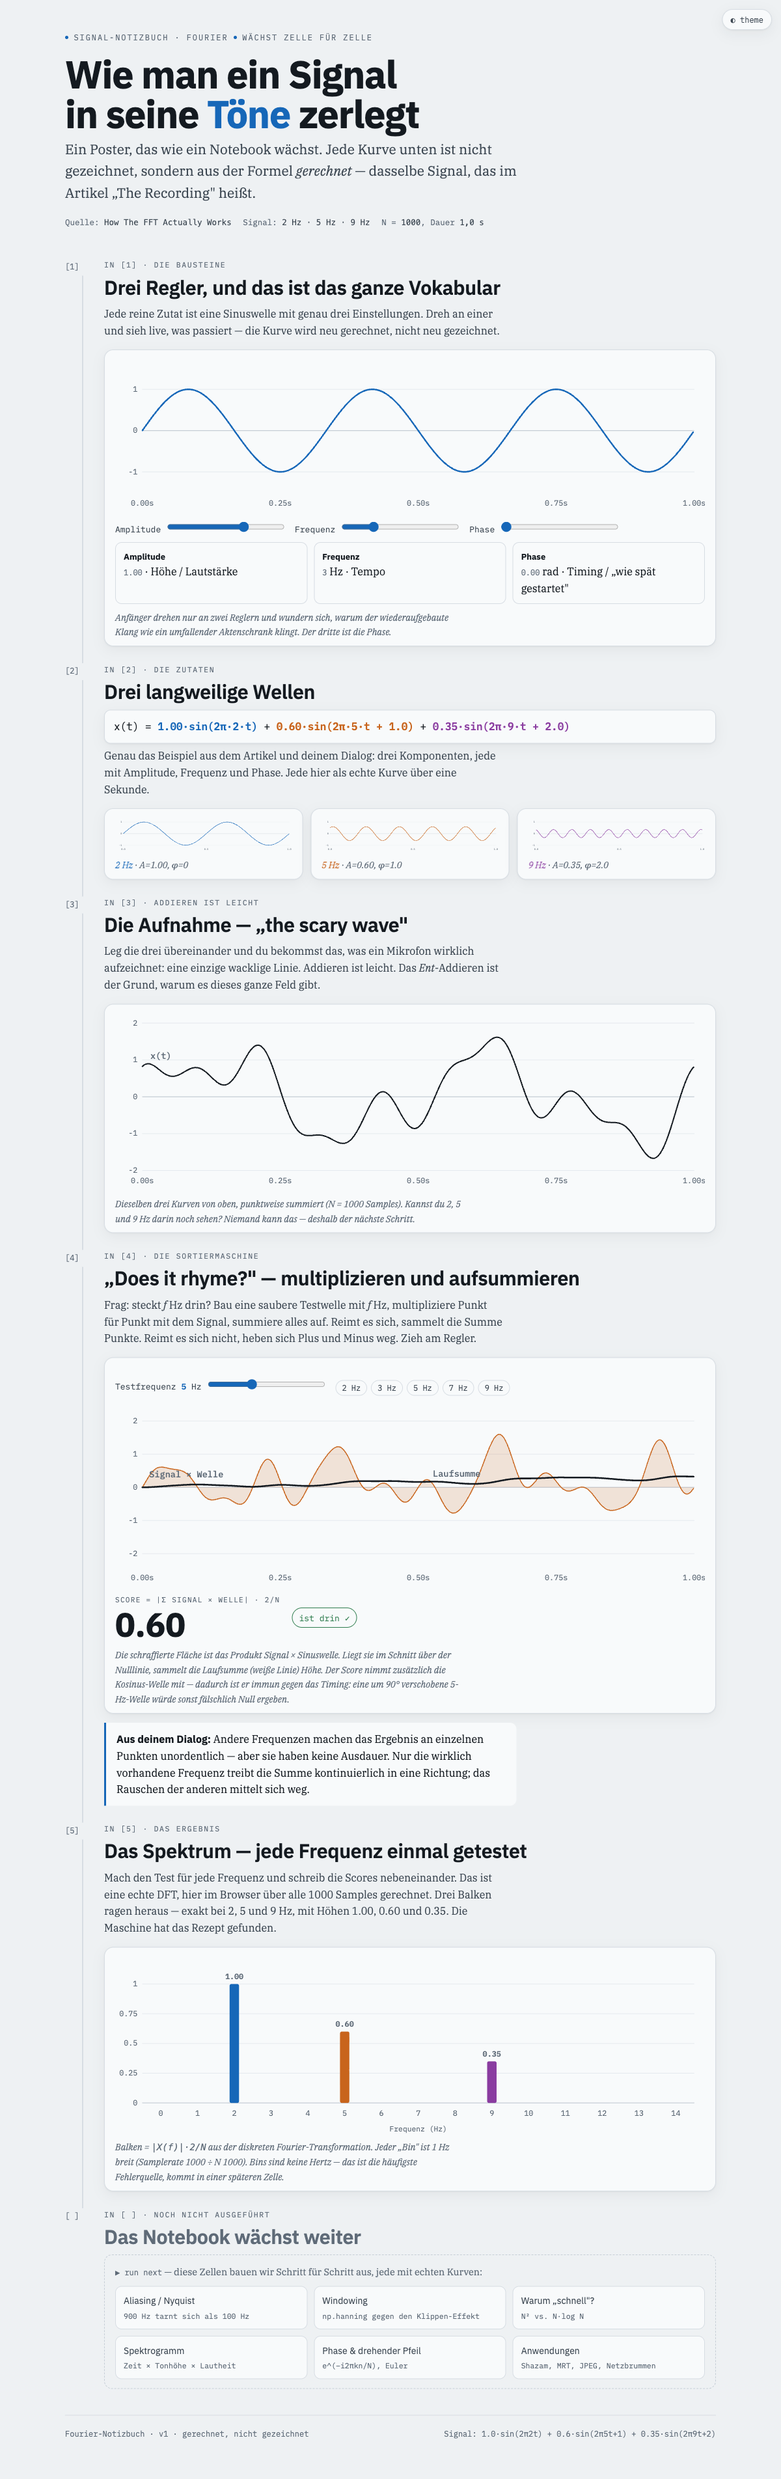
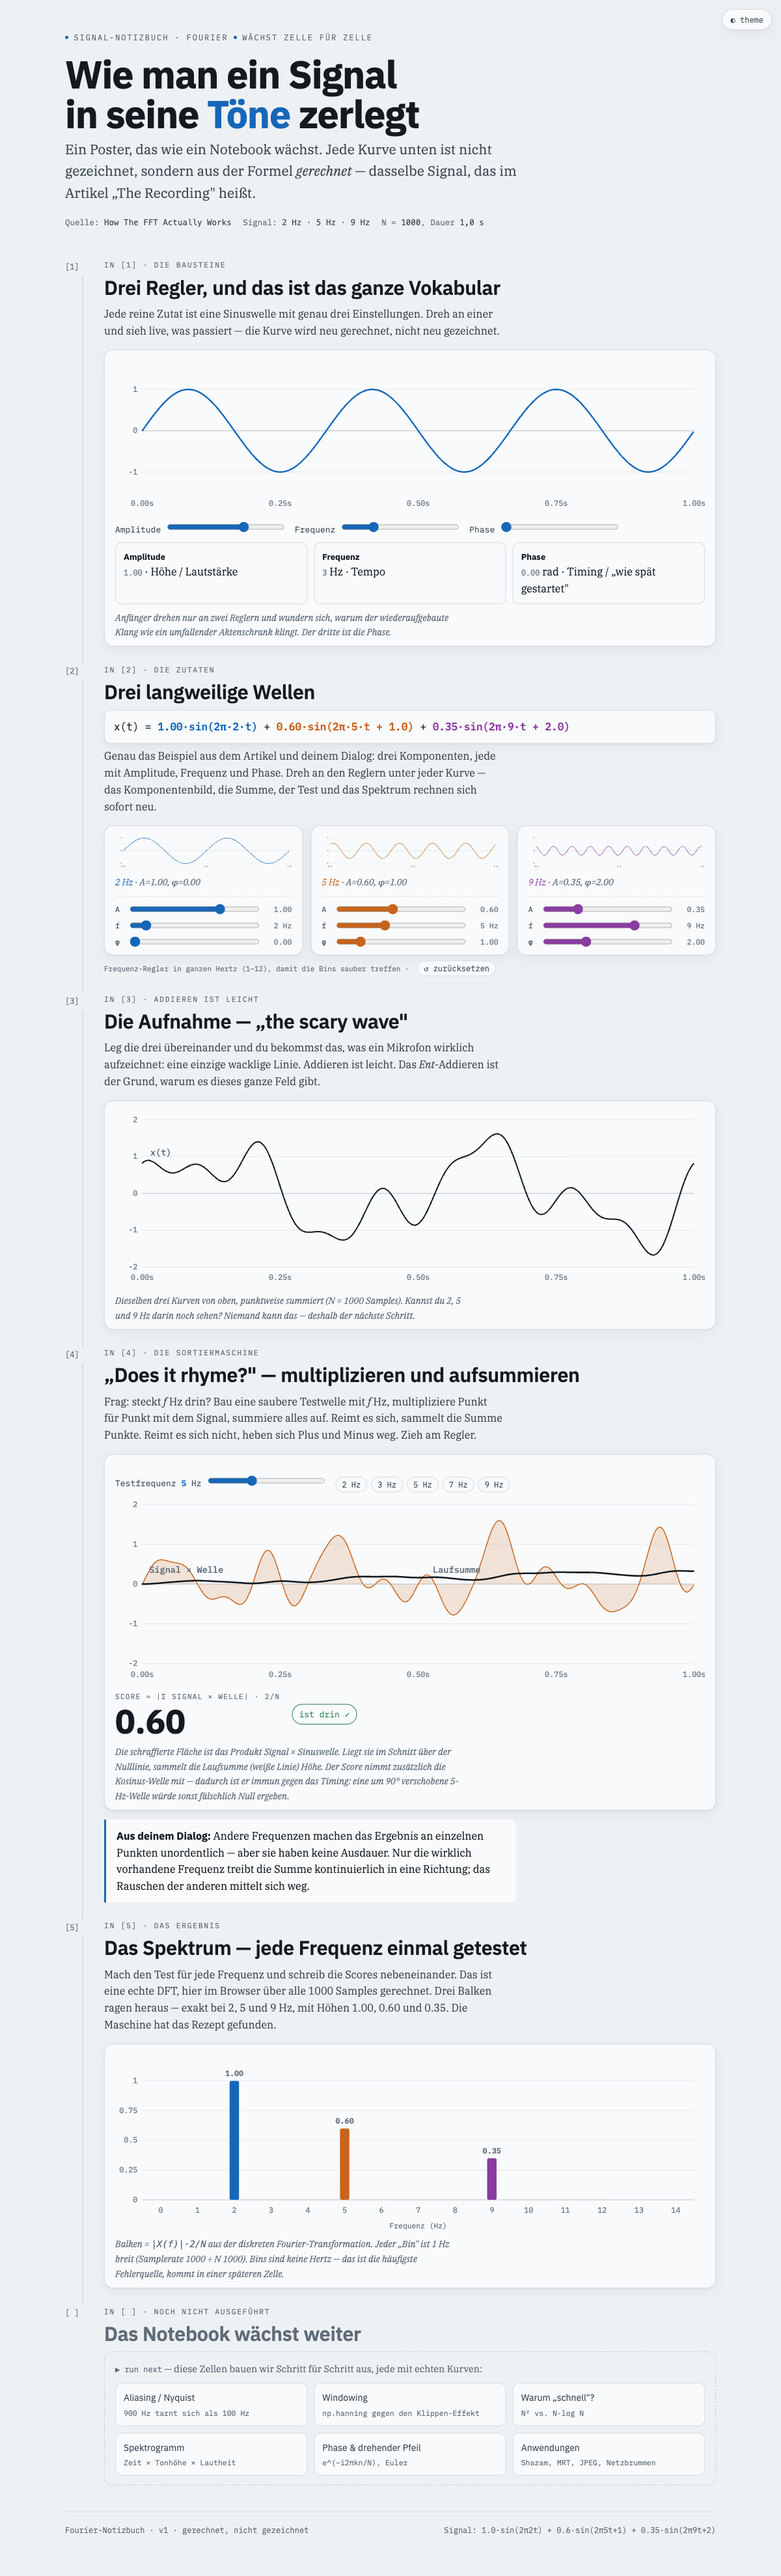
Editable component sliders (A/f/phase) driving all derived charts; enable Pages

diff --git a/index.html b/index.html
@@ -116,6 +116,14 @@
   .grid3{display:grid; grid-template-columns:repeat(3,1fr); gap:12px}
   @media(max-width:720px){.grid3{grid-template-columns:1fr}}
 
+  .compctl{margin-top:10px; display:flex; flex-direction:column; gap:5px;
+    border-top:1px dashed var(--line); padding-top:9px}
+  .compctl .row{display:grid; grid-template-columns:1.1em 1fr auto; gap:8px; align-items:center;
+    font-family:"IBM Plex Mono",monospace; font-size:11.5px; color:var(--ink-2)}
+  .compctl input[type=range]{width:100%; accent-color:var(--cc); min-width:0}
+  .compctl .v{color:var(--muted); text-align:right; min-width:44px; font-variant-numeric:tabular-nums}
+  .compctl-hint{font-family:"IBM Plex Mono",monospace; font-size:11px; color:var(--muted); margin-top:8px}
+
   /* rhyme test controls */
   .controls{display:flex; align-items:center; gap:14px; flex-wrap:wrap; margin:12px 0 4px;
     font-family:"IBM Plex Mono",monospace; font-size:13px; color:var(--ink-2)}
@@ -198,17 +206,19 @@
   <section class="cell" data-n="[2]">
     <p class="out">In [2] · Die Zutaten</p>
     <h2>Drei langweilige Wellen</h2>
-    <div class="formula">x(t) =
-      <span class="c2">1.00·sin(2π·2·t)</span> +
-      <span class="c5">0.60·sin(2π·5·t + 1.0)</span> +
-      <span class="c9">0.35·sin(2π·9·t + 2.0)</span></div>
+    <div class="formula" id="formula">x(t) =
+      <span class="c2" id="f0"></span> +
+      <span class="c5" id="f1"></span> +
+      <span class="c9" id="f2"></span></div>
     <p class="lead">Genau das Beispiel aus dem Artikel und deinem Dialog: drei Komponenten, jede mit
-      Amplitude, Frequenz und Phase. Jede hier als echte Kurve über eine Sekunde.</p>
+      Amplitude, Frequenz und Phase. Dreh an den Reglern unter jeder Kurve — das Komponentenbild,
+      die Summe, der Test und das Spektrum rechnen sich sofort neu.</p>
     <div class="grid3">
-      <figure class="panel"><div id="comp0"></div><figcaption><b style="color:var(--c2)">2 Hz</b> · A=1.00, φ=0</figcaption></figure>
-      <figure class="panel"><div id="comp1"></div><figcaption><b style="color:var(--c5)">5 Hz</b> · A=0.60, φ=1.0</figcaption></figure>
-      <figure class="panel"><div id="comp2"></div><figcaption><b style="color:var(--c9)">9 Hz</b> · A=0.35, φ=2.0</figcaption></figure>
+      <figure class="panel"><div id="comp0"></div><figcaption id="cap0"></figcaption><div class="compctl" id="ctl0" style="--cc:var(--c2)"></div></figure>
+      <figure class="panel"><div id="comp1"></div><figcaption id="cap1"></figcaption><div class="compctl" id="ctl1" style="--cc:var(--c5)"></div></figure>
+      <figure class="panel"><div id="comp2"></div><figcaption id="cap2"></figcaption><div class="compctl" id="ctl2" style="--cc:var(--c9)"></div></figure>
     </div>
+    <div class="compctl-hint">Frequenz-Regler in ganzen Hertz (1–12), damit die Bins sauber treffen · <button class="chip" id="resetSig" style="margin-left:6px">↺ zurücksetzen</button></div>
   </section>
 
   <!-- CELL 3: the sum -->
@@ -312,10 +322,22 @@ const COMPS = [
   {f:5, A:0.60, ph:1.0, c:'var(--c5)'},
   {f:9, A:0.35, ph:2.0, c:'var(--c9)'},
 ];
+const COMP0 = COMPS.map(c=>({...c})); // defaults for reset
 const comp = (f,A,ph)=> t.map(ti => A*Math.sin(TAU*f*ti + ph));
-const signal = (()=>{ const s=new Array(N).fill(0);
-  COMPS.forEach(({f,A,ph})=>{ for(let n=0;n<N;n++) s[n]+= A*Math.sin(TAU*f*t[n]+ph); });
-  return s; })();
+const signal = new Array(N).fill(0);
+function rebuildSignal(){
+  for(let i=0;i<N;i++){ let v=0; for(const c of COMPS) v+= c.A*Math.sin(TAU*c.f*t[i]+c.ph); signal[i]=v; }
+}
+rebuildSignal();
+// symmetric, auto-scaled tick set around 0 so louder signals never clip
+function symTicks(max){
+  let m=Math.max(1,Math.ceil(max-1e-9));
+  let step = m<=2?1 : m<=6?2 : Math.ceil(m/3);
+  const ticks=[0];
+  for(let v=step; v<=m+1e-9; v+=step){ ticks.unshift(-v); ticks.push(v); }
+  return {m:ticks[ticks.length-1], ticks};
+}
+const amax = arr => arr.reduce((mx,v)=>Math.max(mx,Math.abs(v)),0);
 
 /* ---------- tiny SVG plotter (real data -> path) ---------- */
 function cssColor(v){ // resolve a var() to a concrete color for fills that need it
@@ -389,21 +411,63 @@ function drawKnob(){
 }
 [kAmp,kFreq,kPhase].forEach(el=>el.addEventListener('input',drawKnob));
 
-/* ---------- CELL 2: components ---------- */
-function drawComps(){
+/* ---------- CELL 2: components (editable) ---------- */
+function drawComps(only){
   COMPS.forEach((c,i)=>{
+    if(only!=null && only!==i) return;
     const y=comp(c.f,c.A,c.ph);
-    plot('comp'+i,{h:190, mr:14, b:30, xDomain:[0,1], yDomain:[-1.1,1.1],
-      yTicks:[-1,0,1], xTicks:[0,0.5,1], xFmt:v=>v.toFixed(1),
+    const {m,ticks}=symTicks(Math.max(1, c.A));
+    plot('comp'+i,{h:190, mr:14, b:30, xDomain:[0,1], yDomain:[-m,m],
+      yTicks:ticks, xTicks:[0,0.5,1], xFmt:v=>v.toFixed(1),
       aria:c.f+' Hz Komponente',
       series:[{data:dec(zip(y),2), color:c.c, w:2.4}]});
   });
 }
+const CC=['var(--c2)','var(--c5)','var(--c9)'];
+function updateFormula(){
+  COMPS.forEach((c,i)=>{
+    const ph = c.ph>0.001 ? ' + '+c.ph.toFixed(1) : '';
+    document.getElementById('f'+i).textContent = `${c.A.toFixed(2)}·sin(2π·${c.f}·t${ph})`;
+  });
+}
+function updateCaption(i){
+  const c=COMPS[i];
+  document.getElementById('cap'+i).innerHTML =
+    `<b style="color:${CC[i]}">${c.f} Hz</b> · A=${c.A.toFixed(2)}, φ=${c.ph.toFixed(2)}`;
+}
+function buildCtl(i){
+  const c=COMPS[i];
+  document.getElementById('ctl'+i).innerHTML =
+    `<div class="row"><span>A</span><input type="range" min="0" max="1.4" step="0.05" value="${c.A}" data-i="${i}" data-k="A"><span class="v" id="v${i}A">${c.A.toFixed(2)}</span></div>`+
+    `<div class="row"><span>f</span><input type="range" min="1" max="12" step="1" value="${c.f}" data-i="${i}" data-k="f"><span class="v" id="v${i}f">${c.f} Hz</span></div>`+
+    `<div class="row"><span>φ</span><input type="range" min="0" max="6.28" step="0.05" value="${c.ph}" data-i="${i}" data-k="ph"><span class="v" id="v${i}ph">${c.ph.toFixed(2)}</span></div>`;
+}
+function onCtlInput(inp){
+  const i=+inp.dataset.i, k=inp.dataset.k, val=+inp.value;
+  COMPS[i][k]=val;
+  document.getElementById('v'+i+k).textContent = k==='f' ? val+' Hz' : val.toFixed(2);
+  rebuildSignal();
+  drawComps(i); drawSum(); drawTest(); drawSpec(); updateFormula(); updateCaption(i);
+}
+function wireCtls(){
+  document.querySelectorAll('.compctl input').forEach(inp=>
+    inp.addEventListener('input',()=>onCtlInput(inp)));
+}
+function initComps(){
+  for(let i=0;i<3;i++){ buildCtl(i); updateCaption(i); }
+  wireCtls(); updateFormula();
+}
+document.getElementById('resetSig').addEventListener('click',()=>{
+  COMPS.forEach((c,i)=>{ c.A=COMP0[i].A; c.f=COMP0[i].f; c.ph=COMP0[i].ph; buildCtl(i); updateCaption(i); });
+  wireCtls(); rebuildSignal();
+  drawComps(); drawSum(); drawTest(); drawSpec(); updateFormula();
+});
 
 /* ---------- CELL 3: sum ---------- */
 function drawSum(){
-  plot('sumChart',{h:300, xDomain:[0,1], yDomain:[-2,2],
-    yTicks:[-2,-1,0,1,2], xTicks:[0,0.25,0.5,0.75,1], xFmt:v=>v.toFixed(2)+'s', xGrid:false,
+  const {m,ticks}=symTicks(amax(signal));
+  plot('sumChart',{h:300, xDomain:[0,1], yDomain:[-m,m],
+    yTicks:ticks, xTicks:[0,0.25,0.5,0.75,1], xFmt:v=>v.toFixed(2)+'s', xGrid:false,
     aria:'Summe der drei Komponenten, die Aufnahme',
     series:[{data:dec(zip(signal),1), color:'var(--sum)', w:2.2, label:'x(t)', labelAt:8}]});
 }
@@ -427,8 +491,9 @@ function drawTest(){
   const isIn=score>0.15;
   vEl.textContent=isIn?'ist drin ✓':'~ nicht drin';
   vEl.className='verdict '+(isIn?'in':'out');
-  plot('prodChart',{h:320, xDomain:[0,1], yDomain:[-2.4,2.4],
-    yTicks:[-2,-1,0,1,2], xTicks:[0,0.25,0.5,0.75,1], xFmt:v=>v.toFixed(2)+'s',
+  const {m,ticks}=symTicks(Math.max(amax(prod), amax(runScaled.map(p=>p[1]))));
+  plot('prodChart',{h:320, xDomain:[0,1], yDomain:[-m,m],
+    yTicks:ticks, xTicks:[0,0.25,0.5,0.75,1], xFmt:v=>v.toFixed(2)+'s',
     aria:'Produkt von Signal und Testwelle plus Laufsumme',
     areas:[{data:dec(zip(prod),1), fill:'var(--shade)'}],
     series:[
@@ -451,8 +516,9 @@ function dftMag(maxHz){
 }
 function drawSpec(){
   const maxHz=14;
+  const fcol={}; COMPS.forEach((c,i)=>{ fcol[c.f]=CC[i]; }); // colour bins at current component freqs
   const bars=dftMag(maxHz).map(b=>({...b,
-    color: b.x===2?'var(--c2)':b.x===5?'var(--c5)':b.x===9?'var(--c9)':'var(--rule)',
+    color: fcol[b.x]||'var(--rule)',
     label:(Math.abs(b.y)>0.05)?b.y.toFixed(2):null}));
   plot('specChart',{h:300, barW:16, xDomain:[-0.5,maxHz+0.5], yDomain:[0,1.15],
     yTicks:[0,0.25,0.5,0.75,1.0], xTicks:Array.from({length:maxHz+1},(_,i)=>i), xFmt:v=>v,
@@ -462,6 +528,7 @@ function drawSpec(){
 
 /* ---------- init + theme ---------- */
 function drawAll(){ drawKnob(); drawComps(); drawSum(); drawTest(); drawSpec(); }
+initComps();
 drawAll();
 
 const btn=document.getElementById('themeBtn');

diff --git a/README.md b/README.md
@@ -7,13 +7,14 @@ Medium-Artikel *„How The Fast Fourier Transform Actually Works"* und der begle
 **Alle Kurven sind echt** — nicht gezeichnet, sondern zur Laufzeit aus der Signalformel gerechnet
 (bis hin zu einer echten DFT im Browser).
 
-## Vorschau
+## Live ansehen
+
+**→ https://tillg.github.io/fourier/** (GitHub Pages, ohne Login, direkt im Browser)
 
 ![Fourier-Poster v1](assets/poster-preview.png)
 
-> **Interaktiv (live, gerendert):** https://claude.ai/code/artifact/877d1135-2b0c-487a-87db-3b38f9498e85
-> — Regler & Testfrequenz sind bedienbar, Dark/Light per Umschalter oben rechts.
-> Alternativ `index.html` lokal öffnen.
+> Interaktiv: alle Komponenten-Regler, die Testfrequenz und der Theme-Umschalter sind bedienbar.
+> (Auch als Claude-Artifact: https://claude.ai/code/artifact/877d1135-2b0c-487a-87db-3b38f9498e85)
 
 ## Das Signal
 
@@ -25,8 +26,8 @@ Sample-Rate 1000 Hz, Dauer 1,0 s, N = 1000 — exakt das Beispiel aus Artikel un
 ## Zellen (v1)
 
 1. **Drei Regler** — Amplitude / Frequenz / Phase, an einer echten Sinuskurve, interaktiv.
-2. **Drei Komponenten** — 2 Hz, 5 Hz, 9 Hz als echte Kurven.
-3. **Die Aufnahme** — die Summe („scary wave").
+2. **Drei Komponenten** — 2 Hz, 5 Hz, 9 Hz als echte Kurven, **je mit eigenen A/f/φ-Reglern**. Änderungen wirken sofort auf Komponente, Summe, Test und Spektrum.
+3. **Die Aufnahme** — die Summe („scary wave"), auto-skaliert.
 4. **„Does it rhyme?"** — Signal × Testwelle, schraffierte Produktfläche, Laufsumme, Score (phasen-immun via sin+cos). Interaktiver Frequenz-Regler.
 5. **Das Spektrum** — echte DFT im Browser; Peaks bei 2/5/9 Hz mit Höhen 1.00 / 0.60 / 0.35.
 
@@ -41,8 +42,7 @@ python3 -m http.server 8747   # dann http://localhost:8747/ öffnen
 
 ## Hinweise
 
-- Repo ist **privat**. GitHub Pages ist für private Repos im aktuellen Plan nicht verfügbar
-  (HTTP 422) — daher ist das gerenderte Poster oben als Bild eingebettet. Bei Bedarf: Repo auf
-  *public* stellen, dann kann Pages `index.html` direkt ausliefern.
+- Repo ist **public** und wird über **GitHub Pages** aus `index.html` (Branch `main`, Root)
+  ausgeliefert: https://tillg.github.io/fourier/ — ohne Login im Browser sichtbar.
 - Die Quell-PDF (34 MB) liegt lokal, ist aber bewusst **nicht** eingecheckt (Größe + Urheberrecht).
 - Entscheidungen & Annahmen: siehe [`DECISIONS.md`](DECISIONS.md).
